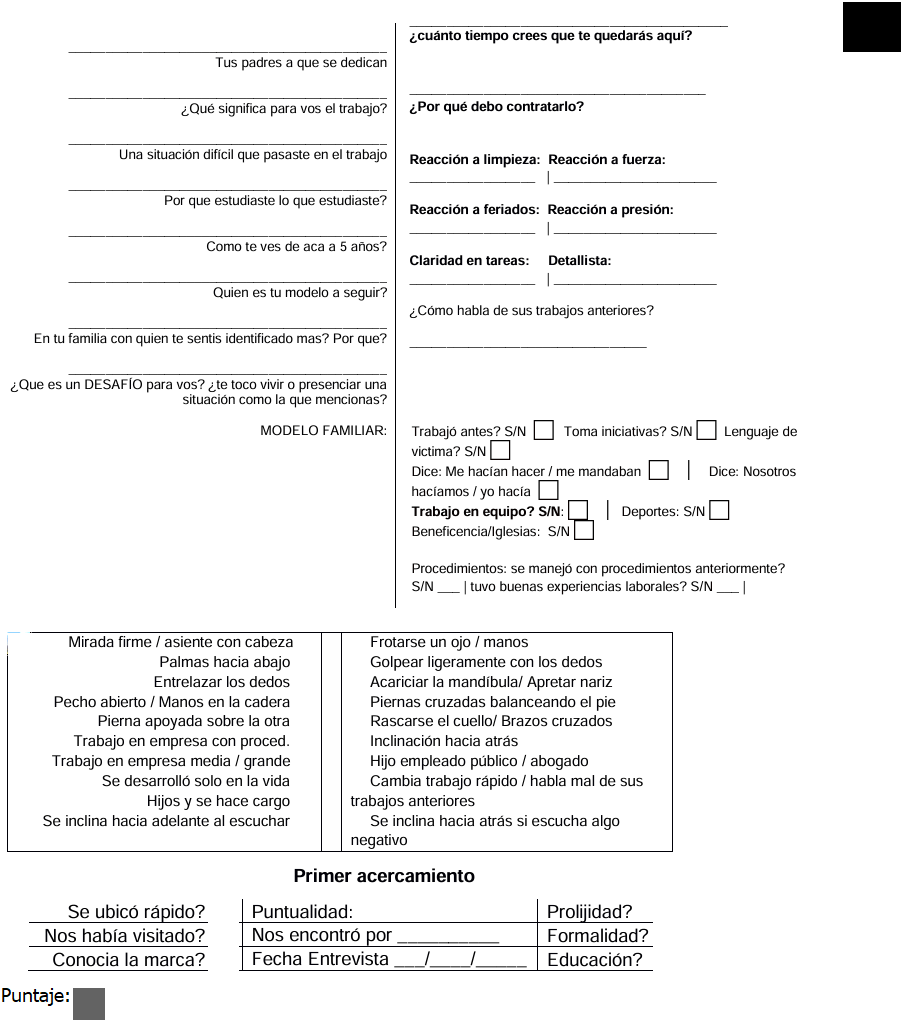
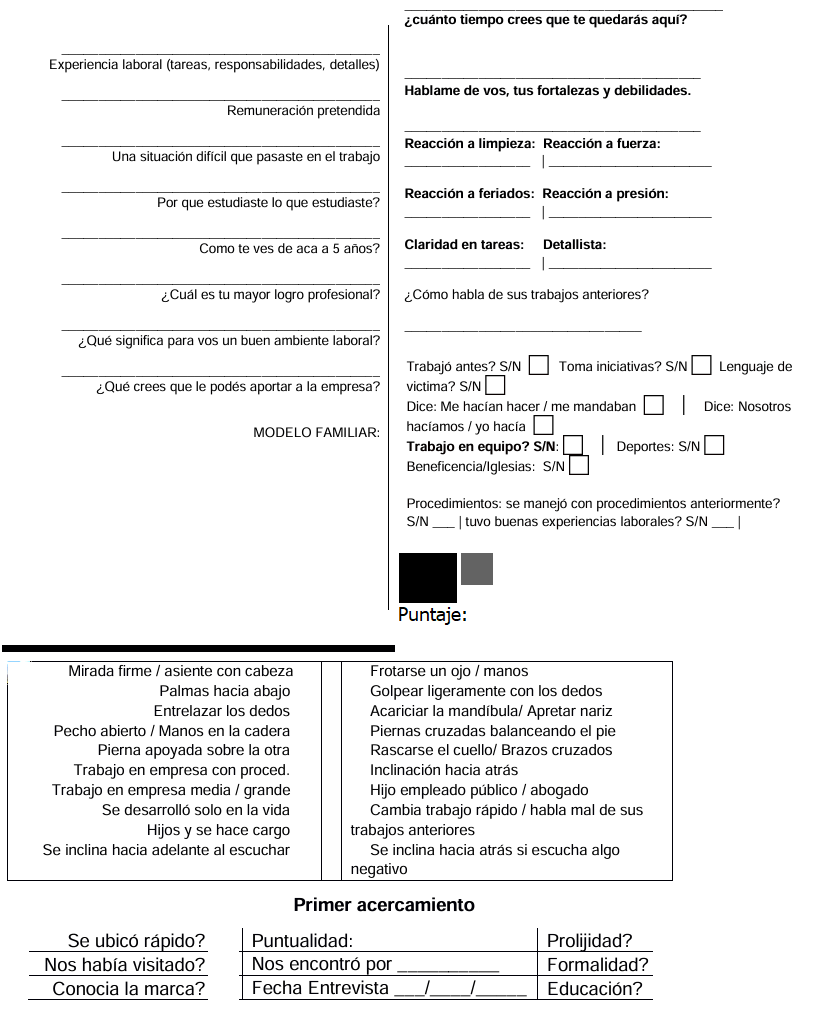
Add files via upload

diff --git a/rrhh/index.html b/rrhh/index.html
@@ -1,4 +1,4 @@
-<!DOCTYPE html>
+<!DOCTYPE html>
 
 <html lang="en">
 
@@ -18,7 +18,7 @@ html {height: 100%;}
 }
 </style>
 
-  <title>Clickteam Fusion Developer 2.5+ HTML5 Runtime</title>
+  <title>1era Entrevista</title>
 
 	<script>
 	   	// Detection of old browsers that do not support the canvas element
